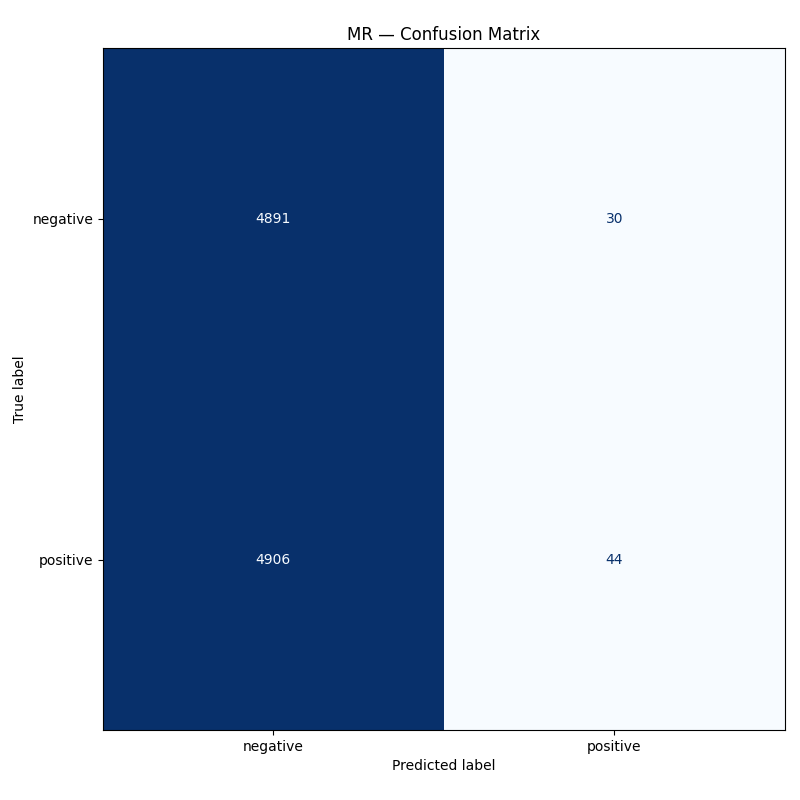
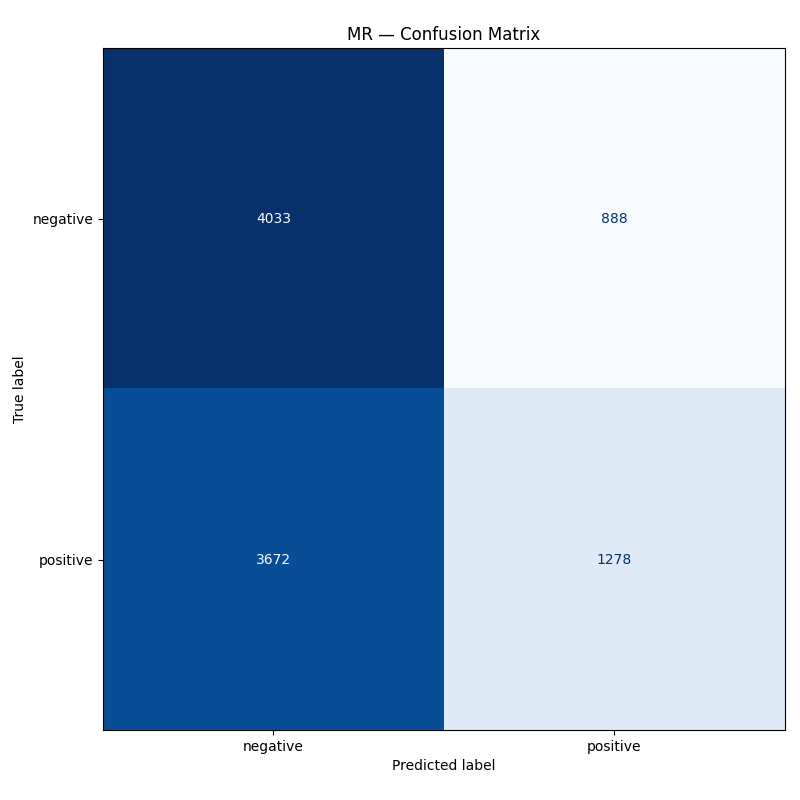
Add seeds

diff --git a/src/visualize.py b/src/visualize.py
@@ -1,14 +1,16 @@
+import glob
 import os
 import json
 import argparse
+import numpy as np
 import torch
 import matplotlib.pyplot as plt
 from sklearn.metrics import confusion_matrix, ConfusionMatrixDisplay
 
 from src.train import load_dataset, load_pickle, GIFTTrainer
 
-def plot_curves(dataset_name):
-    with open(f"results/{dataset_name}_history.json") as f:
+def plot_curves(dataset_name, seed):
+    with open(f"results/{dataset_name}_seed{seed}_history.json") as f:
         history = json.load(f)
 
     epochs = range(1, len(history["train_loss"]) + 1)
@@ -20,7 +22,7 @@ def plot_curves(dataset_name):
     plt.title(f"{dataset_name} — Loss Curve")
     plt.legend()
     plt.tight_layout()
-    plt.savefig(f"results/{dataset_name}_loss.png")
+    plt.savefig(f"results/{dataset_name}_seed{seed}_loss.png")
     plt.close()
     print("Saved loss curve.")
 
@@ -32,12 +34,12 @@ def plot_curves(dataset_name):
     plt.title(f"{dataset_name} — Validation Accuracy & F1")
     plt.legend()
     plt.tight_layout()
-    plt.savefig(f"results/{dataset_name}_accuracy.png")
+    plt.savefig(f"results/{dataset_name}_seed{seed}_accuracy.png")
     plt.close()
     print("Saved accuracy curve.")
 
 
-def plot_confusion_matrix(model, Z_org, test_idx, true_labels, dataset_name, class_names=None):
+def plot_confusion_matrix(model, Z_org, test_idx, true_labels, dataset_name, seed, class_names=None):
     model.eval()
     with torch.no_grad():
         Z = Z_org[test_idx]
@@ -52,7 +54,7 @@ def plot_confusion_matrix(model, Z_org, test_idx, true_labels, dataset_name, cla
     disp.plot(ax=ax, colorbar=False, cmap="Blues")
     plt.title(f"{dataset_name} — Confusion Matrix")
     plt.tight_layout()
-    plt.savefig(f"results/{dataset_name}_confusion.png")
+    plt.savefig(f"results/{dataset_name}_seed{seed}_confusion.png")
     plt.close()
     print("Saved confusion matrix.")
 
@@ -79,11 +81,29 @@ def rebuild_embeddings(trainer, word_graph, entity_graph, pos_graph, all_texts, 
         )
     return Z_org
 
+def find_median_seed(dataset_name):
+    paths = sorted(glob.glob(f"results/{dataset_name}_seed*_test.json"))
+    if not paths:
+        raise FileNotFoundError(f"No test results found for {dataset_name}")
+
+    accs, seeds = [], []
+    for path in paths:
+        with open(path) as f:
+            r = json.load(f)
+        accs.append(r["test_acc"])
+        seeds.append(r["seed"])
+
+    mean_acc = np.mean(accs)
+    median_seed = seeds[np.argmin([abs(a - mean_acc) for a in accs])]
+    print(f"Auto-selected seed {median_seed} (closest to mean {mean_acc*100:.2f}%)")
+    return median_seed
+
 if __name__ == "__main__":
     parser = argparse.ArgumentParser()
     parser.add_argument("--dataset", type=str, required=True)
-    parser.add_argument("--num_classes", type=int, default=2) 
+    parser.add_argument("--num_classes", type=int, default=2)
     args = parser.parse_args()
+    seed = find_median_seed(args.dataset)
 
     os.makedirs("results", exist_ok=True)
 
@@ -123,7 +143,11 @@ if __name__ == "__main__":
     trainer.init_gcn(word_graph, entity_graph, pos_graph)
 
     # Load saved model weights
-    checkpoint = torch.load(f"saved_models/{args.dataset}_gift_best.pt", weights_only=True)
+    checkpoint = torch.load(
+        f"saved_models/{args.dataset}_seed{seed}_gift_best.pt",
+        weights_only=True
+    )
+    
     trainer.model.load_state_dict(checkpoint["model"], strict=True)
     trainer.gcn_w.load_state_dict(checkpoint["gcn_w"])
     trainer.gcn_e.load_state_dict(checkpoint["gcn_e"])
@@ -135,9 +159,6 @@ if __name__ == "__main__":
     trainer.gcn_e.eval()
     trainer.gcn_p.eval()
 
-    # Build graphs and init GCN before running
-    word_graph, entity_graph, pos_graph = trainer.build_graphs(tokens, entities, pos)
-
     # Rebuild embeddings
     Z_org = rebuild_embeddings(
         trainer, word_graph, entity_graph, pos_graph,
@@ -145,7 +166,7 @@ if __name__ == "__main__":
     )
 
     # Plot curves
-    plot_curves(args.dataset)
+    plot_curves(args.dataset, seed)
 
     # Dataset class names
     CLASS_NAMES = {
@@ -163,6 +184,7 @@ if __name__ == "__main__":
         data["test_idx"],
         data["all_labels"],
         dataset_name=args.dataset,
+        seed=seed,
         class_names=class_names
     )
 

diff --git a/src/graph/pmi.py b/src/graph/pmi.py
@@ -12,34 +12,28 @@ class PMIBuilder:
 
         node_count = Counter()
         pair_count = Counter()
-
-        total_docs = len(documents)
-
+        total_windows = 0  # Count windows
         window_size = 5
 
         for doc_nodes in documents:
             for i in range(len(doc_nodes)):
                 window = doc_nodes[i:i + window_size]
                 unique_nodes = set(window)
+                total_windows += 1 # Increment per window
                 for node in unique_nodes:
                     node_count[node] += 1
                 for n1, n2 in combinations(sorted(unique_nodes), 2):
                     pair_count[(n1, n2)] += 1
 
-                A = np.zeros(
-                    (len(nodes), len(nodes)),
-                    dtype=np.float32
-                )
+        # Initialize A once outside loop
+        A = np.zeros((len(nodes), len(nodes)), dtype=np.float32)
 
         for (n1, n2), cooccur in pair_count.items():
-            p_i = node_count[n1] / total_docs
-            p_j = node_count[n2] / total_docs
-            p_ij = cooccur / total_docs
+            p_i = node_count[n1] / total_windows
+            p_j = node_count[n2] / total_windows
+            p_ij = cooccur / total_windows
 
-            pmi = np.log(
-                p_ij / (p_i * p_j + 1e-12)
-            )
-
+            pmi = np.log(p_ij / (p_i * p_j + 1e-12))
             pmi = max(pmi, 0)
 
             i = node_to_idx[n1]

diff --git a/src/test.py b/src/test.py
@@ -1,3 +1,5 @@
+import glob
+import os
 import torch
 import json
 import argparse
@@ -44,6 +46,7 @@ if __name__ == "__main__":
     parser = argparse.ArgumentParser()
     parser.add_argument("--dataset", type=str, required=True)
     parser.add_argument("--num_classes", type=int, default=2)
+    parser.add_argument("--seed", type=int, default=42)
     args = parser.parse_args()
 
     data = load_dataset(args.dataset)
@@ -80,7 +83,7 @@ if __name__ == "__main__":
     trainer.init_gcn(word_graph, entity_graph, pos_graph)
 
     # Load saved model weights
-    checkpoint = torch.load(f"saved_models/{args.dataset}_gift_best.pt", weights_only=True)
+    checkpoint = torch.load(f"saved_models/{args.dataset}_seed{args.seed}_gift_best.pt", weights_only=True)
     trainer.model.load_state_dict(checkpoint["model"], strict=True)
     trainer.gcn_w.load_state_dict(checkpoint["gcn_w"])
     trainer.gcn_e.load_state_dict(checkpoint["gcn_e"])
@@ -108,3 +111,15 @@ if __name__ == "__main__":
 
     print(f"Test Accuracy: {acc*100:.2f}%")
     print(f"Test Macro-F1: {f1*100:.2f}%")
+    
+    # Save per-seed result
+    os.makedirs("results", exist_ok=True)
+    result = {
+        "dataset": args.dataset,
+        "seed": args.seed,
+        "test_acc": acc,
+        "test_f1": f1
+    }
+    with open(f"results/{args.dataset}_seed{args.seed}_test.json", "w") as f:
+        json.dump(result, f)
+    print(f"Saved result to results/{args.dataset}_seed{args.seed}_test.json")

diff --git a/src/train.py b/src/train.py
@@ -1,4 +1,6 @@
+import argparse
 import os
+import random
 import numpy as np
 import torch
 import pickle
@@ -168,12 +170,16 @@ def load_dataset(dataset_name):
 
 
 if __name__ == "__main__":
-    import argparse
-
     parser = argparse.ArgumentParser()
     parser.add_argument("--dataset", type=str, required=True)
     parser.add_argument("--num_classes", type=int, default=2)
+    parser.add_argument("--seed", type=int, default=42)
     args = parser.parse_args()
+    
+    # Ensure same results generated for same seed
+    torch.manual_seed(args.seed)
+    random.seed(args.seed)
+    np.random.seed(args.seed)
 
     # Load dataset
     data = load_dataset(args.dataset)
@@ -391,13 +397,13 @@ if __name__ == "__main__":
                 "gcn_w": trainer.gcn_w.state_dict(),
                 "gcn_e": trainer.gcn_e.state_dict(),
                 "gcn_p": trainer.gcn_p.state_dict(),
-            }, f"saved_models/{args.dataset}_gift_best.pt")
+            }, f"saved_models/{args.dataset}_seed{args.seed}_gift_best.pt")
  
         print(f"Epoch {epoch+1:02d} | Loss: {loss.item():.4f} | Val Acc: {val_acc:.4f} | Val F1: {val_f1:.4f} | Best: {best_val_acc:.4f}")
  
     # Save results
     os.makedirs("results", exist_ok=True)
-    with open(f"results/{args.dataset}_history.json", "w") as f:
+    with open(f"results/{args.dataset}_seed{args.seed}_history.json", "w") as f:
         json.dump(metrics, f)
 
     # Save final model (separate from best)
@@ -407,7 +413,7 @@ if __name__ == "__main__":
         "gcn_w": trainer.gcn_w.state_dict(),
         "gcn_e": trainer.gcn_e.state_dict(),
         "gcn_p": trainer.gcn_p.state_dict(),
-    }, f"saved_models/{args.dataset}_gift.pt")
+    }, f"saved_models/{args.dataset}_seed{args.seed}_gift.pt")
     print(f"Training complete. Best val acc: {best_val_acc:.4f}")
     print("Models saved.")
  

diff --git a/scripts/convert_agnews.py b/scripts/convert_agnews.py
@@ -29,7 +29,7 @@ def load_csv(path):
 
 import random
 
-def convert(max_train=10000, max_test=1000, seed=42):
+def convert(max_train=4000, max_test=1000, seed=42):
     random.seed(seed)
 
     train_path = "data/original/agnews/raw/train.csv"